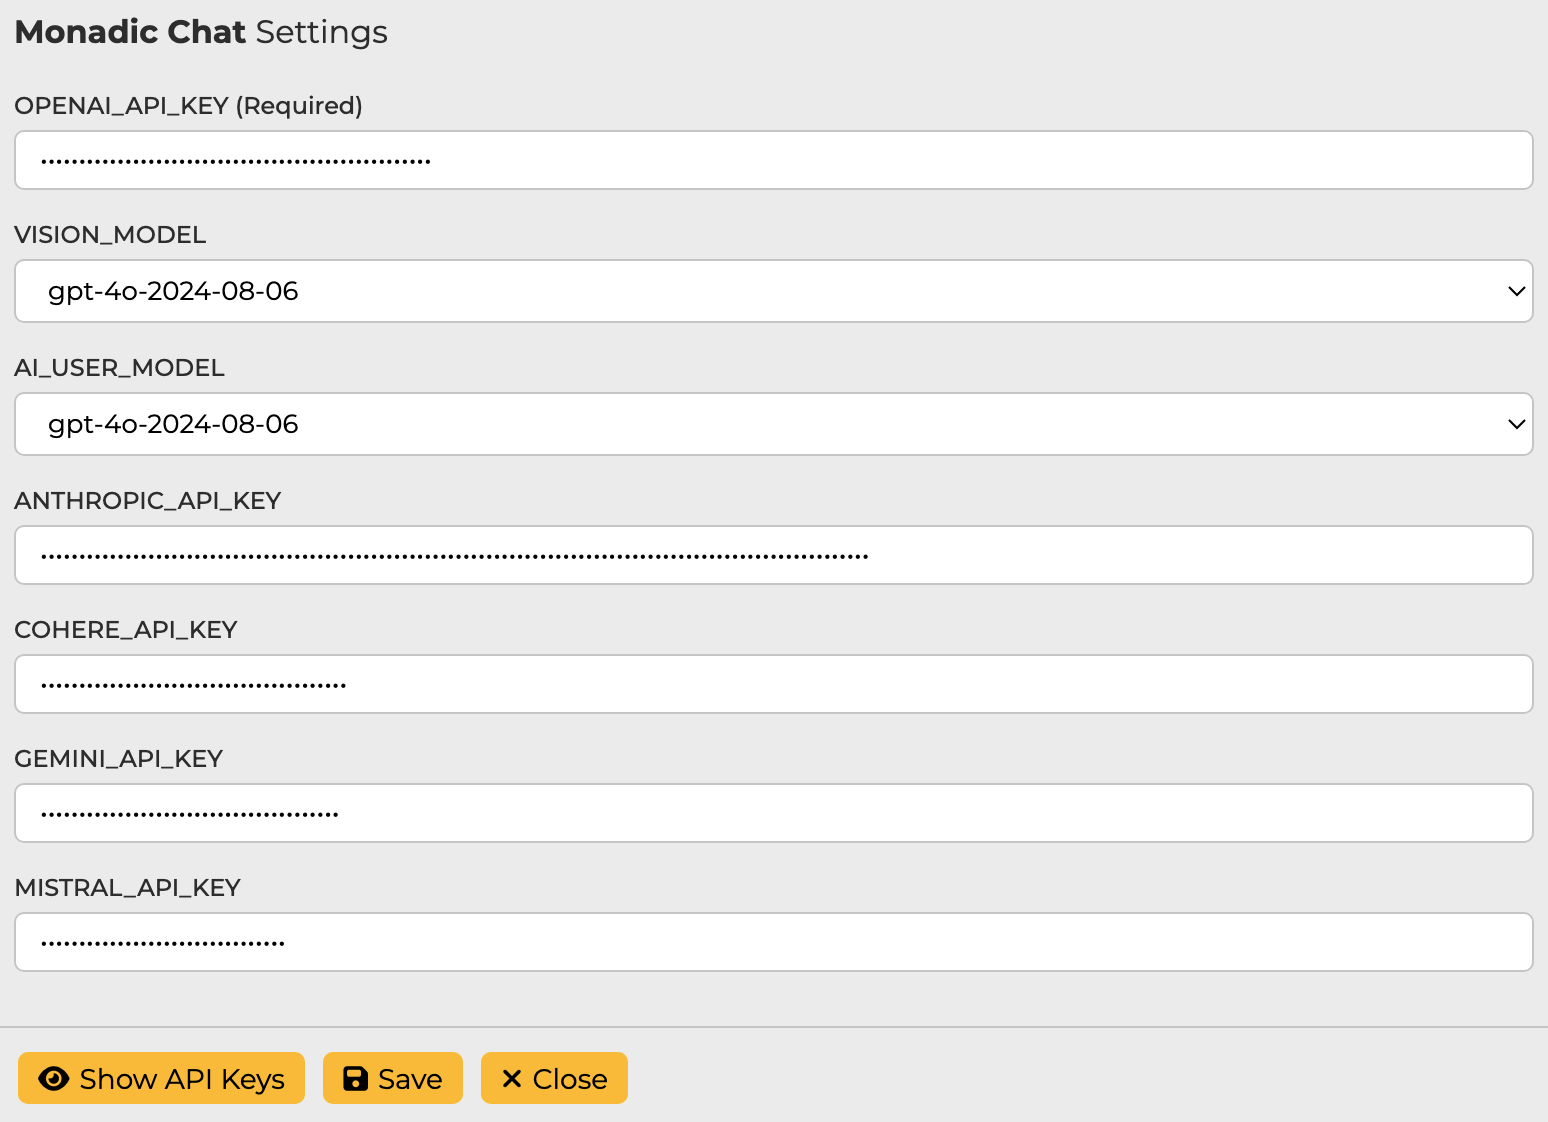
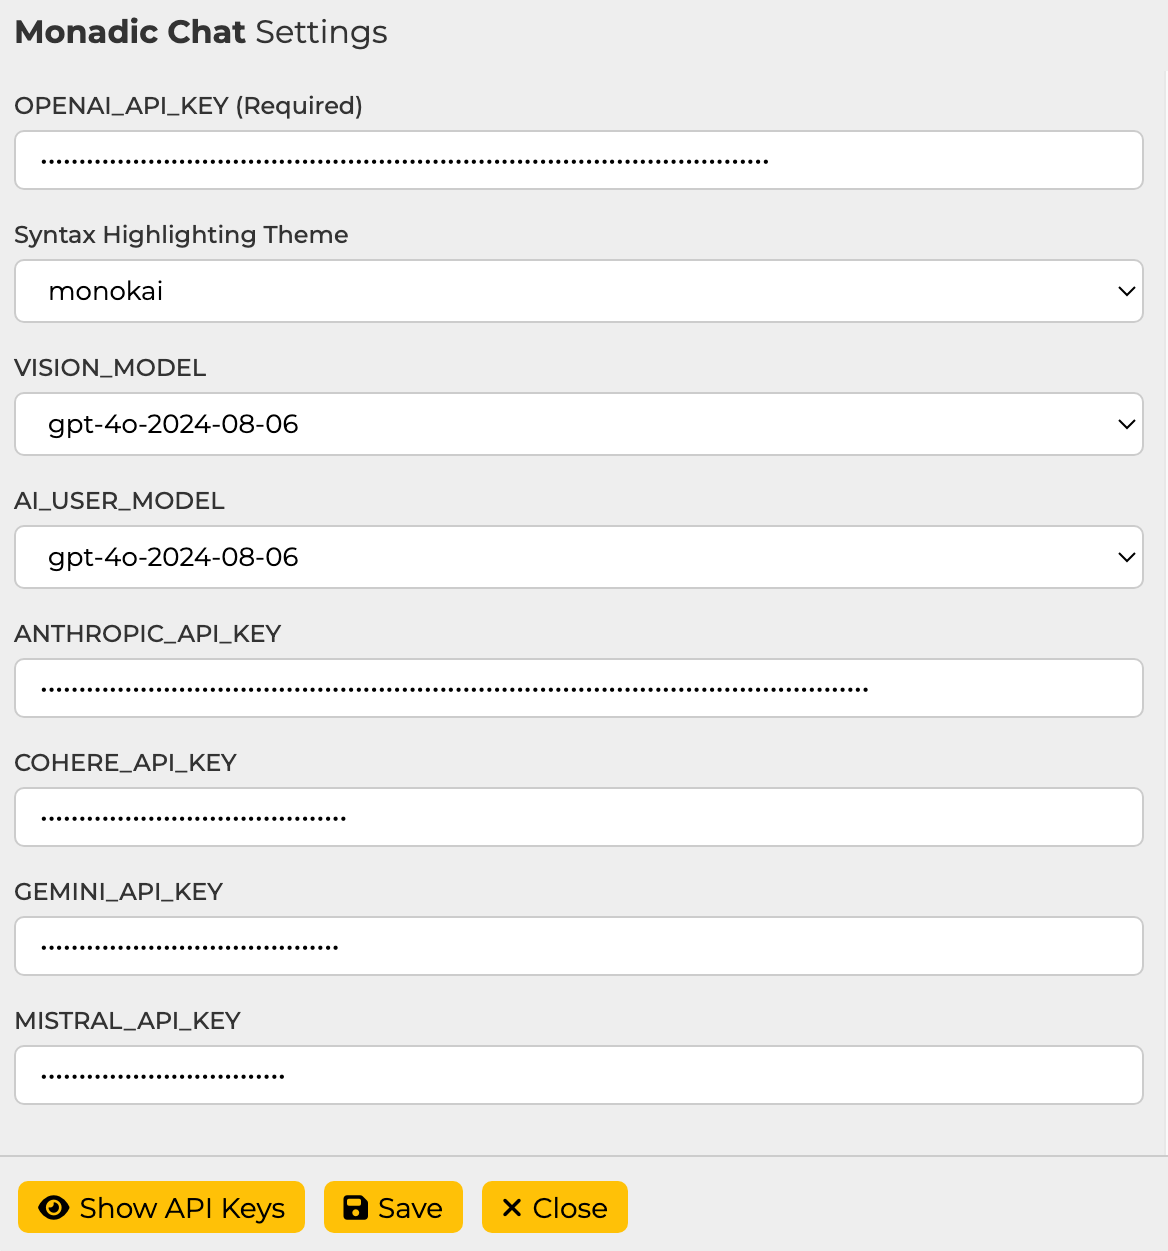
Syntax highlighting documentation added

diff --git a/settings.html b/settings.html
@@ -127,7 +127,7 @@
           <option value="gruvbox:dark">gruvbox-dark</option>
           <option value="colorful:dark">colorful</option>
           <option value="molokai:dark">molokai</option>
-          <option value="monokai:dark">monokai</option>
+          <option value="monokai:dark" selected>monokai</option>
           <option value="monokai_sublime:dark">monokai_sublime</option>
           <option value="tulip:dark">tulip</option>
           <option value="thankful_eyes:light">thankful_eyes</option>
@@ -139,7 +139,7 @@
           <option value="bw:light">bw</option>
           <option value="igor_pro:light">igor_pro</option>
           <option value="magritte:light">magritte</option>
-          <option value="pastie:light" selected>pastie</option>
+          <option value="pastie:light">pastie</option>
         </select>
 
         <label for="vision-model">VISION_MODEL</label>

diff --git a/docs/ja/syntax-highlighting.md b/docs/ja/syntax-highlighting.md
@@ -1,0 +1,71 @@
+# シンタックス・ハイライト
+
+Monaco Editor は、シンタックス・ハイライトをサポートしています。シンタックス・ハイライトは、コードの構文を強調表示するための色付けです。Monaco Editor は、シンタックス・ハイライトを有効にするために、`monaco.languages.register` メソッドを使用します。シンタックス・ハイライトのテーマは設定パネルで選択できます。デフォルトは `monokai` です。
+
+## Dark Themes
+
+**base16-dark**
+
+![](/assets/images/syntax-base16-dark.png ':size=800')
+
+**github-dark**
+
+![](/assets/images/syntax-github-dark.png ':size=800')
+
+**gruvbox-dark**
+
+![](/assets/images/syntax-gruvbox-dark.png ':size=800')
+
+**colorful**
+
+![](/assets/images/syntax-colorful.png ':size=800')
+
+**molokai**
+
+![](/assets/images/syntax-molokai.png ':size=800')
+
+**monokai**
+
+![](/assets/images/syntax-monokai.png ':size=800')
+
+**monokai_sublime**
+
+![](/assets/images/syntax-monokai_sublime.png ':size=800')
+
+**tulip**
+
+![](/assets/images/syntax-tulip.png ':size=800')
+
+**thankful_eyes**
+
+![](/assets/images/syntax-thankful_eyes.png ':size=800')
+
+## Light Themes
+
+**base16-light**
+
+![](/assets/images/syntax-base16-light.png ':size=800')
+
+**github-light**
+
+![](/assets/images/syntax-github-light.png ':size=800')
+
+**gruvbox-light**
+
+![](/assets/images/syntax-gruvbox-light.png ':size=800')
+
+**bw**
+
+![](/assets/images/syntax-bw.png ':size=800')
+
+**igor_pro**
+
+![](/assets/images/syntax-igor_pro.png ':size=800')
+
+**magritte**
+
+![](/assets/images/syntax-magritte.png ':size=800')
+
+**pastie**
+
+![](/assets/images/syntax-pastie.png ':size=800')

diff --git a/docs/syntax-highlighting.md b/docs/syntax-highlighting.md
@@ -1,0 +1,71 @@
+# Syntax Highlighting
+
+Monadic Chat supports syntax highlighting for code snippets in the chat. The syntax highlighting is based on the [rouge](https://github.com/rouge-ruby/rouge) library, which supports a wide range of programming languages and themes. You can select the theme from the settings panel.
+
+## Dark Themes
+
+**base16-dark**
+
+![](/assets/images/syntax-base16-dark.png ':size=800')
+
+**github-dark**
+
+![](/assets/images/syntax-github-dark.png ':size=800')
+
+**gruvbox-dark**
+
+![](/assets/images/syntax-gruvbox-dark.png ':size=800')
+
+**colorful**
+
+![](/assets/images/syntax-colorful.png ':size=800')
+
+**molokai**
+
+![](/assets/images/syntax-molokai.png ':size=800')
+
+**monokai**
+
+![](/assets/images/syntax-monokai.png ':size=800')
+
+**monokai_sublime**
+
+![](/assets/images/syntax-monokai_sublime.png ':size=800')
+
+**tulip**
+
+![](/assets/images/syntax-tulip.png ':size=800')
+
+**thankful_eyes**
+
+![](/assets/images/syntax-thankful_eyes.png ':size=800')
+
+## Light Themes
+
+**base16-light**
+
+![](/assets/images/syntax-base16-light.png ':size=800')
+
+**github-light**
+
+![](/assets/images/syntax-github-light.png ':size=800')
+
+**gruvbox-light**
+
+![](/assets/images/syntax-gruvbox-light.png ':size=800')
+
+**bw**
+
+![](/assets/images/syntax-bw.png ':size=800')
+
+**igor_pro**
+
+![](/assets/images/syntax-igor_pro.png ':size=800')
+
+**magritte**
+
+![](/assets/images/syntax-magritte.png ':size=800')
+
+**pastie**
+
+![](/assets/images/syntax-pastie.png ':size=800')

diff --git a/docs/console-panel.md b/docs/console-panel.md
@@ -42,6 +42,8 @@ All settings here are saved in the `~/monadic/data/.env` file.
 
 **OPENAI_API_KEY** (Required) Enter your OpenAI API key. This key is used to access the Chat API, DALL-E image generation API, Whisper speech recognition API, and speech synthesis API. It can be obtained from the [OpenAI API page](https://platform.openai.com/docs/guides/authentication).
 
+**SYNTAX HILIGHTING THEME** Select the theme for code syntax highlighting. The default is `monokai`.
+
 **VISION_MODEL** Select the model used for image and video recognition. Currently, `gpt-4o` and `gpt-4o-mini` are available. The default is `gpt-4o-mini`.
 
 **AI_USER_MODEL** Select the model used for the AI User feature, which creates messages on behalf of the user. Currently, `gpt-4o` and `gpt-4o-mini` are available. The default is `gpt-4o-mini`.

diff --git a/docs/ja/console-panel.md b/docs/ja/console-panel.md
@@ -55,6 +55,9 @@ Monadic ChatのPGVectorデータベースに、Monadic Chatのエクスポート
 **OPENAI_API_KEY** （必須）<br />
 OpenAI API キーを入力してください。このキーはChat API、DALL-E 画像生成 API、Whisper 音声認識 API、音声合成 API などにアクセスするため使用されます。[OpenAI API page](https://platform.openai.com/docs/guides/authentication) で取得できます。
 
+**SYNTAX HILIGHTING THEME**<br />
+コードのシンタックスハイライトのテーマを選択します。デフォルトは `monokai` です。
+
 **VISION_MODEL**<br />
 画像認識と動画認識に使用するモデルを選択します。現在は `gpt-4o` と `gpt-4o-mini` が利用可能です。デフォルトは `gpt-4o-mini` です。
 

diff --git a/docs/ja/_sidebar.md b/docs/ja/_sidebar.md
@@ -11,6 +11,7 @@
     - [メッセージ入力](/ja/message-input.md)
     - [基本アプリ](/ja/basic-apps.md)
     - [言語モデル](/ja/language-models.md)
+    - [シンタックスハイライト](/ja/syntax-highlighting.md)
 
 - **Docker連携**
     - [基本構造](/ja/basic-architecture.md)

diff --git a/docs/_sidebar.md b/docs/_sidebar.md
@@ -11,6 +11,7 @@
     - [Message Input](/message-input.md)
     - [Basic Apps](/basic-apps.md)
     - [Language Models](/language-models.md)
+    - [Syntax Highlighting](/syntax-highlighting.md)
 
 - **Docker Integration**
     - [Basic Architecture](/basic-architecture.md)
